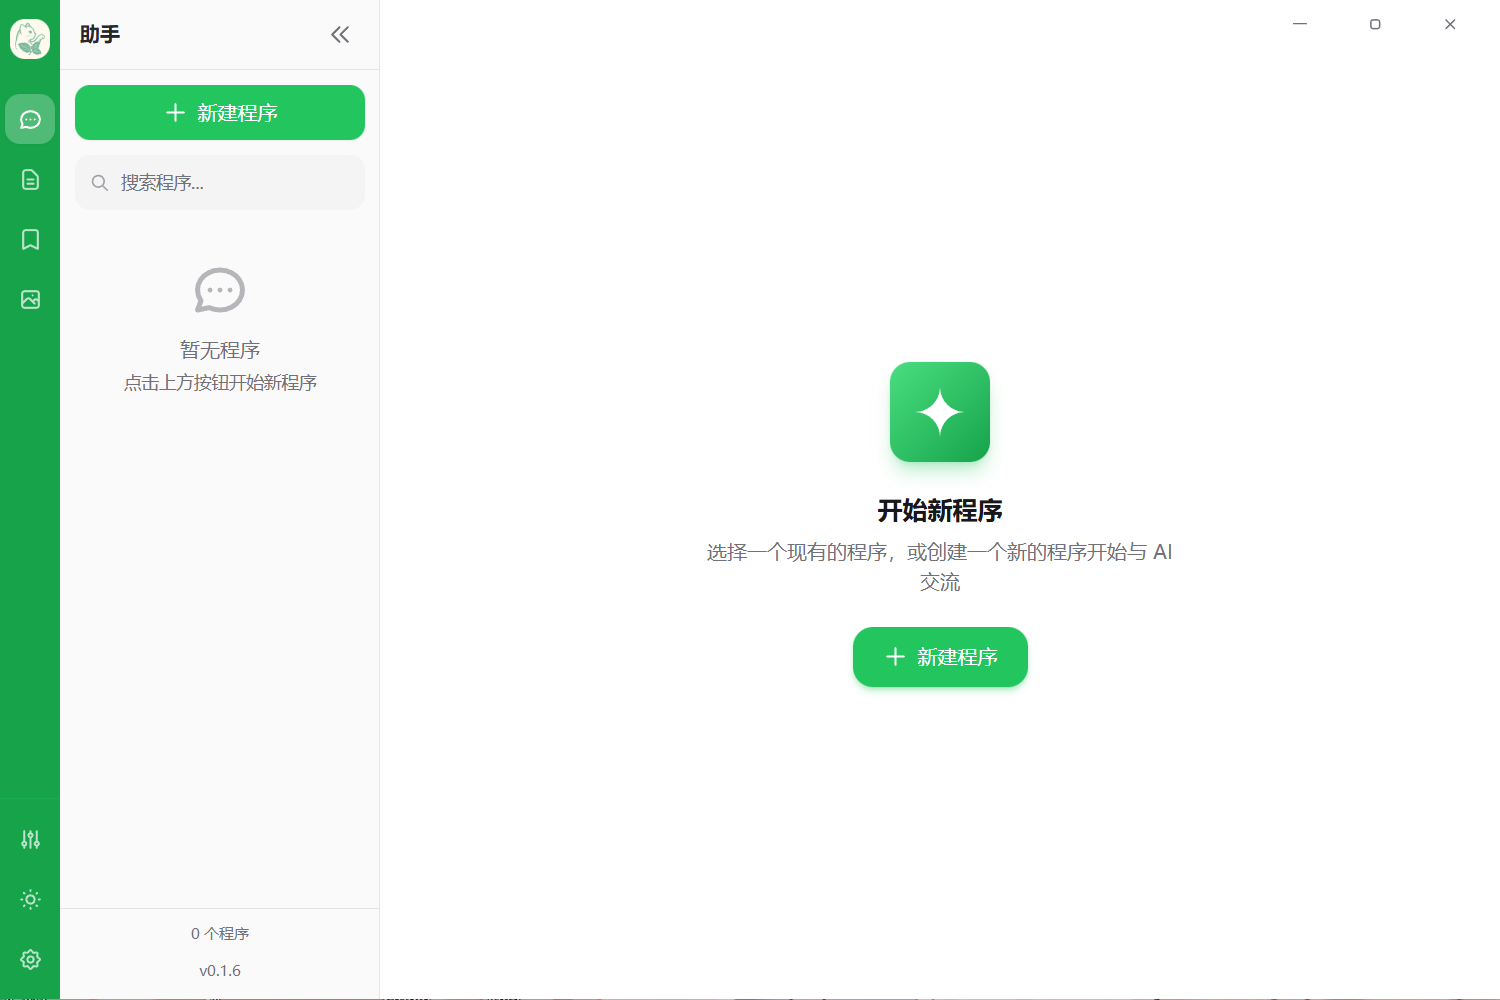
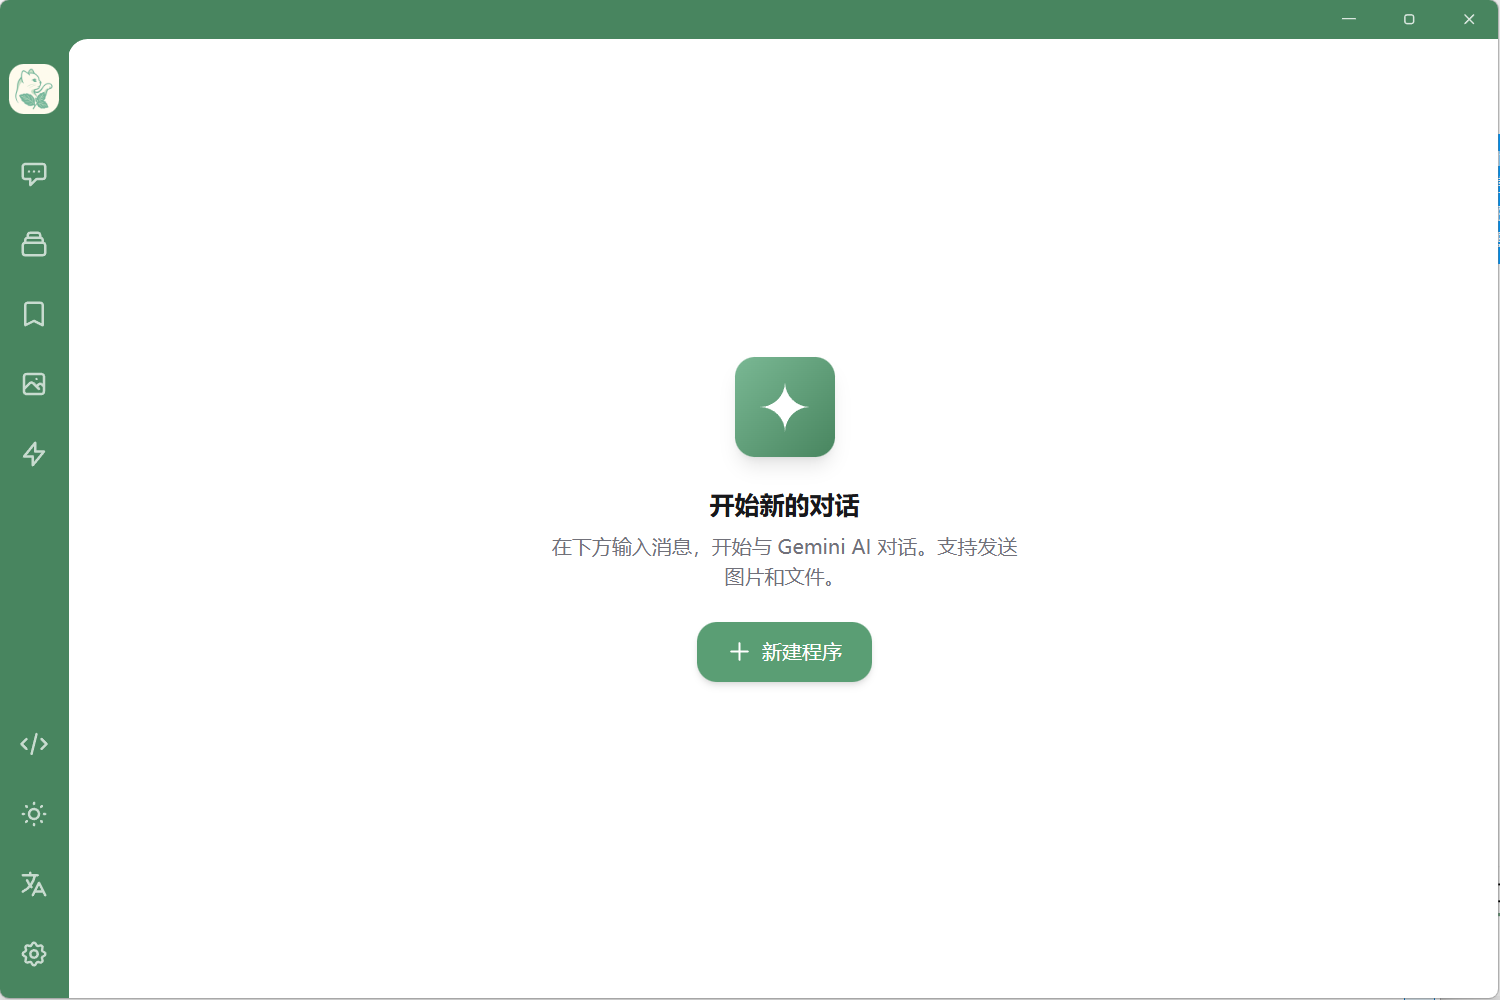
chore: update README with new image assets and translations for English version

diff --git a/README_EN.md b/README_EN.md
@@ -94,19 +94,13 @@
 ### Main Interface
 
 <p align="center">
-  <img src="public/readme/main-interface.png" alt="Main Interface" width="800">
+  <img src="public/readme/main-interface-en.png" alt="Main Interface" width="800">
 </p>
 
 ### Image Gallery
 
 <p align="center">
-  <img src="public/readme/image-gallery.png" alt="Image Gallery" width="800">
-</p>
-
-### Midnight Mint Theme
-
-<p align="center">
-  <img src="public/readme/midnightBohe-theme.png" alt="Midnight Mint Theme" width="800">
+  <img src="public/readme/image-gallery-en.png" alt="Image Gallery" width="800">
 </p>
 
 ### Model Redirect
@@ -217,7 +211,7 @@ After deployment, visit http://localhost:5173 to use the application.
 3. Leave API endpoint empty to use the official address, or enter a third-party proxy address
 
 <p align="center">
-  <img src="public/readme/api-settings.png" alt="API Settings" width="500">
+  <img src="public/readme/api-settings-en.png" alt="API Settings" width="500">
 </p>
 
 ### Getting API Key
